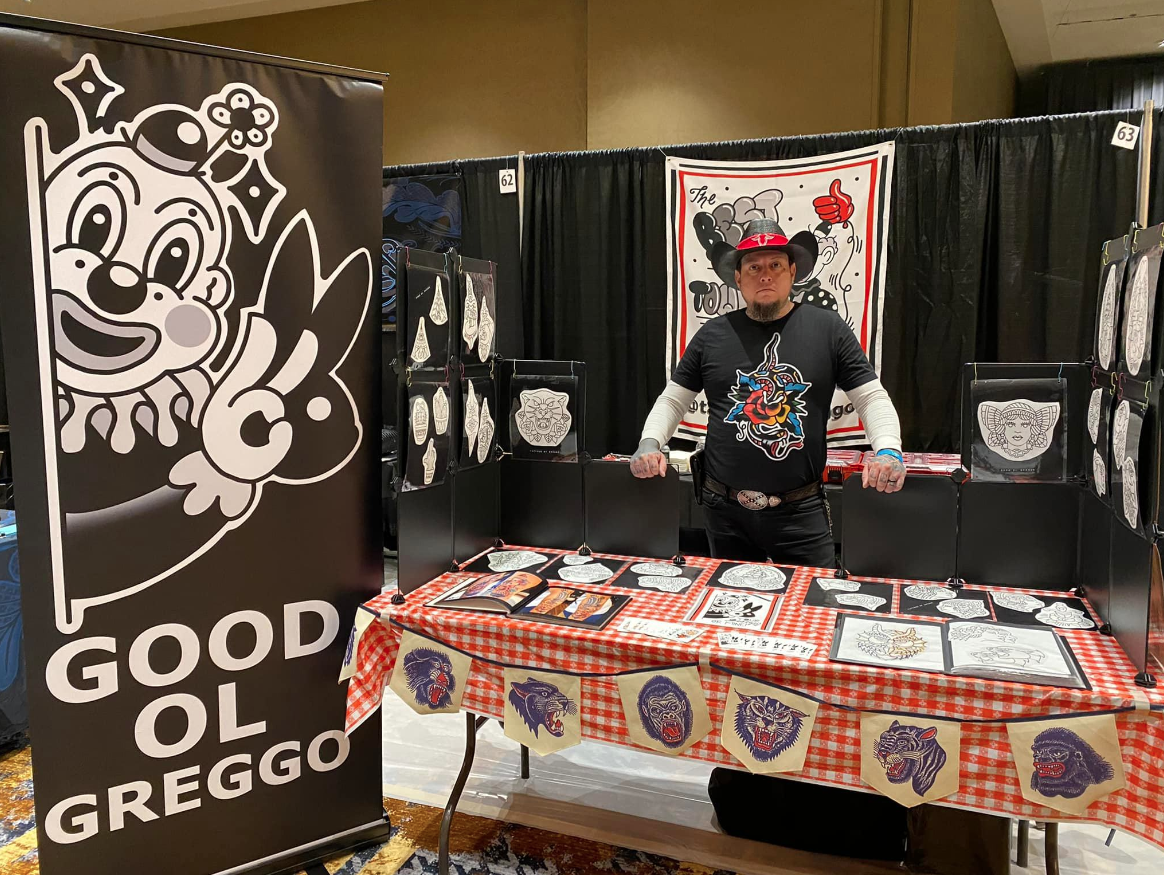
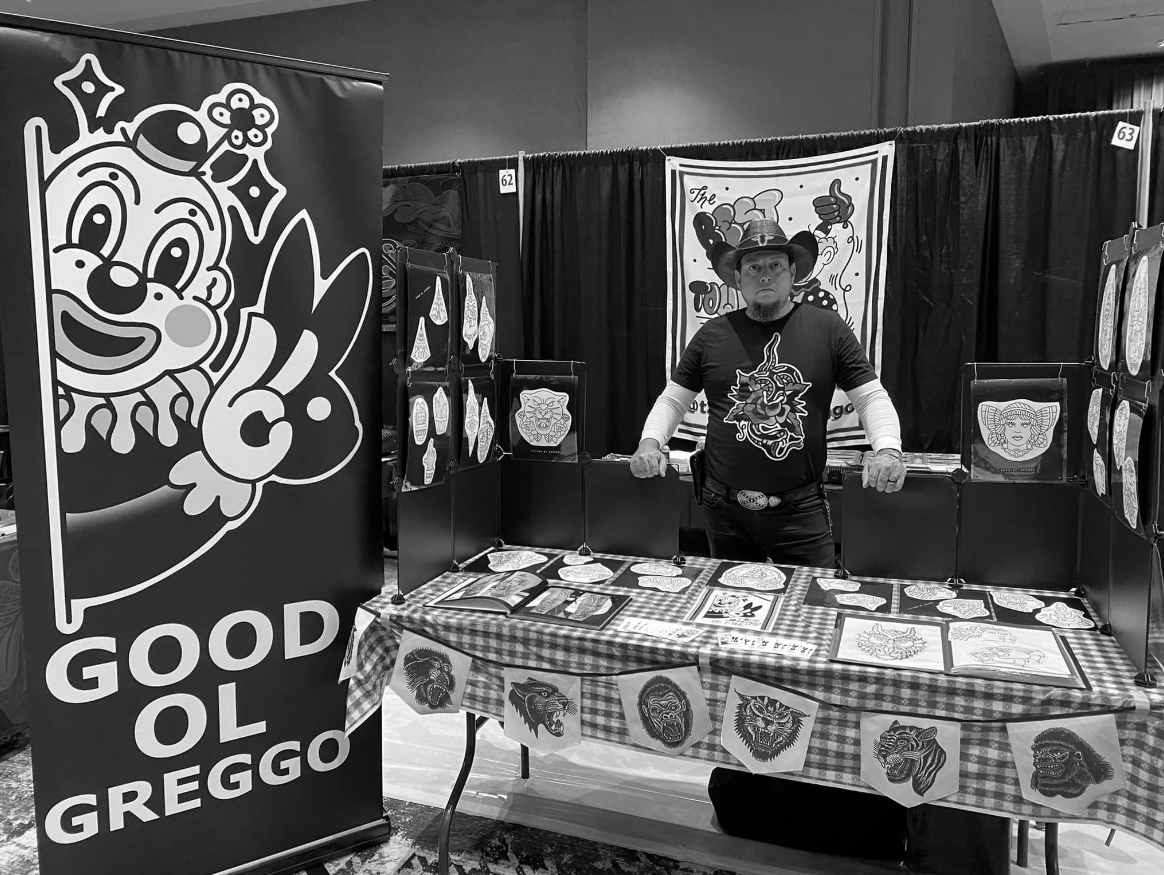
minor changes added to styling, greyed out a photo, sample data edited

diff --git a/src/data.js b/src/data.js
@@ -47,7 +47,7 @@ export const socialData = [
 export const heroData = {
   title: 'Good ol Greggo',
   subtitle:
-    'Tattoos have their own unique power and magic. They not only beautify the body but also the psyche.',
+    'Tattoos are art where ink goes under the skin. I am the best at putting ink under the skin.',
   btnText: 'read more',
   btnIcon: <IoMdArrowForward />,
 };
@@ -55,7 +55,7 @@ export const heroData = {
 export const aboutData = {
   title: 'My Story:',
   subtitle1:
-    'In velit arcu posuere integer. Dolor sit amet, consectetur nun adipiscing elit. Duis porttitor massa tellus hac vel ante sit sed scelerisque praesent duis volutpat laoreet.',
+    'I have no idea what to say bro, you never told me your story. Im gonna throw up some latin. In velit arcu posuere integer. Dolor sit amet, consectetur nun adipiscing elit. Duis porttitor massa tellus hac vel ante sit sed scelerisque praesent duis volutpat laoreet.',
   subtitle2:
     'Nisl, sit molestie commodo congue. Etiam lectus risus in amet. Commodo molestie fames etiam aenean sed. Pellentesque et venenatis amet, tellus hac vel adipiscing sit. Placerat vitae nisl viverra faucibus tincidunt habitasse amet. Nunc, velit nunc, scelerisque imperdiet nunc.',
   btnText: 'Know more',
@@ -120,7 +120,7 @@ export const galleryData = {
 
 export const interviewData = {
   title:
-    '“Consider what you desire. Your tattoo artist will never tell you what tattoo to have.”',
+    '“Stop crying. Its a small needle not your fathers approval”',
   btnText: 'Watch it now',
   btnIcon: <FaPlay />,
 };
@@ -129,14 +129,14 @@ export const testimonialData = [
   {
     quoteImg: QuoteImg,
     message:
-      "The entire team is extremely kind and friendly. They're fantastic. They're great at what they do! And it's unique.They will properly consult with you.",
+      "He did the tattoos real good.",
     name: 'Jack Geoffrey',
-    occupation: 'Tattoo Artist',
+    occupation: 'Client',
   },
   {
     quoteImg: QuoteImg,
     message:
-      'Lorem ipsum dolor sit amet consectetur adipisicing elit. Magnam culpa asperiores officia natus dignissimos autem possimus molestias aperiam?',
+      'Work came out clean, straight lines, good work. I can see why hes an award winning artist',
     name: 'Douglas Hane',
     occupation: 'Tattoo Artist',
   },
@@ -146,38 +146,20 @@ export const contactData = {
   title: 'Get in touch with me:',
   info: [
     {
-      title: 'LA office',
+      title: 'Somewhere in Missouri',
       subtitle:
-        'In velit arcu posuere integer sit amet, consectetur nun adipiscing elit. Duis porttitor massa tellus',
+        'I have no idea which shop you work at, im gonna need the details',
       address: {
         icon: <FaMapMarkerAlt />,
-        name: '784 Norman Street, Los Angeles',
+        name: 'Bumfuck Missouri i have no idea',
       },
       phone: {
         icon: <FaPhoneAlt />,
-        number: '+49 93 30493943',
+        number: '(555)555-5555',
       },
       email: {
         icon: <FaEnvelope />,
-        address: 'contact@yourcompany.com',
-      },
-      link: 'Get location',
-    },
-    {
-      title: 'NYC office',
-      subtitle:
-        'Sit amet, consectetur nun in velit arcu posuere integer. Adipiscing elit duis porttitor massa tellus',
-      address: {
-        icon: <FaMapMarkerAlt />,
-        name: '1630 Elm Drive, New York City',
-      },
-      phone: {
-        icon: <FaPhoneAlt />,
-        number: '+49 34 36573355',
-      },
-      email: {
-        icon: <FaEnvelope />,
-        address: 'contact@yourcompany.com',
+        address: 'do-you-have-a-work-email@yourcompany.com',
       },
       link: 'Get location',
     },

diff --git a/src/components/Copyright.js b/src/components/Copyright.js
@@ -1,7 +1,26 @@
-import React from 'react';
+import React from 'react'
+  // import motion
+import { motion } from 'framer-motion'
+
 
 const Copyright = () => {
-  return <div>Copyright</div>;
-};
+  return (
+    <div className = 'bg-dark text-[#dbdbdb] py-6 border-t border-[#2b2b2b]'>
+      <div className = 'container mx-auto'>
+        <motion.div initial = {{ y: 40, opacity: 0 }}
+          whileInView = {{ y: 0, opacity: 1 }}
+          transition = {{
+            type: 'tween',
+            duration: 0.8,
+            delay: 0.2,
+          }}
+          viewport = {{ once: false, amount: 0 }}
+          className = 'tracking-[0.02em] text-base'>
+          &copy; 2022 <span className = 'font-semibold text-white'>Good Ol Greggo</span> All rights reserved. 
+        </motion.div>
+      </div>
+    </div>
+  )
+}
 
 export default Copyright;

diff --git a/public/index.html b/public/index.html
@@ -2,14 +2,14 @@
 <html lang="en">
   <head>
     <meta charset="utf-8" />
-    <link rel="icon" href="%PUBLIC_URL%/favicon.ico" />
+    <link rel="icon" href="%PUBLIC_URL%/logo.png" />
     <meta name="viewport" content="width=device-width, initial-scale=1" />
     <meta name="theme-color" content="#000000" />
     <meta
       name="description"
       content="Web site created using create-react-app"
     />
-    <link rel="apple-touch-icon" href="%PUBLIC_URL%/logo192.png" />
+    <link rel="apple-touch-icon" href="%PUBLIC_URL%/logo.png" />
     <!--
       manifest.json provides metadata used when your web app is installed on a
       user's mobile device or desktop. See https://developers.google.com/web/fundamentals/web-app-manifest/

diff --git a/src/components/Interview.js b/src/components/Interview.js
@@ -27,7 +27,7 @@ const Interview = () => {
           <div className = 'flex flex-col items-start max-w-[880px]'>
               {/* title */}
             <motion.h3 variants = { fadeIn('down') }
-              className = 'text-white text-[40px] lg:text-[60px] leading-[1.1] font-tertiary -tracking-[1.5px] capitalize'>
+              className = 'text-white text-[40px] lg:text-[60px] leading-[1.1] font-tertiary -tracking-[1.5px] capitalize b-dark'>
               { title }
             </motion.h3>
             <motion.div variants = { fadeIn('down') }>

diff --git a/src/components/Hero.js b/src/components/Hero.js
@@ -33,7 +33,7 @@ const Hero = () => {
             className = 'h1'>{ title }</motion.h1>
           <motion.p 
             variants = { fadeIn('down') } 
-            className = 'mb-8 lg:mb-16 max-w-lg leading-relaxed'>
+            className = 'mb-8 lg:mb-16 max-w-lg leading-relaxed b-dark'>
               { subtitle }
           </motion.p>
               {/* btn */}

diff --git a/src/App.js b/src/App.js
@@ -25,7 +25,7 @@ const App = () => {
       <Contact />
       <Footer />
       <Copyright />
-      <div className='h-[4000px]'></div>
+      {/* <div className='h-[4000px]'></div> */}
     </div>
   );
 };

diff --git a/src/index.css b/src/index.css
@@ -39,3 +39,7 @@
     @apply px-0 h-auto text-dark hover:text-dark/90 transition-all;
   }
 }
+
+.b-dark{
+  text-shadow: 0 0 5px #000, 0 0 5px #000;
+}
